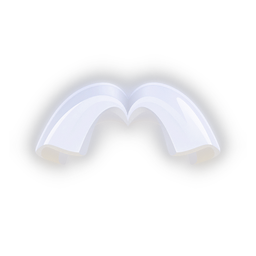
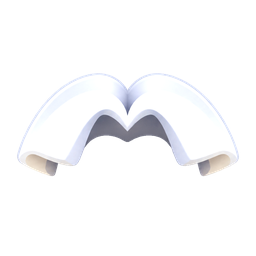
feat(brand): 更换品牌图标——透明底新稿，小尺寸辨识度增强
- assets/icon-source.png 换为 660×660 透明底原稿，原样归档不再走黑转透明
- assets/icon.png 重制：只裁全透明边距（alpha>0 像素不裁），alpha 曲线
  36→110 收净浮丝、对比度 1.25 加深中缝，等比放大至 128/256 槽高居中
- src/brandIcon.ts 注释同步新工艺，1800 行旧描述不再误导

Changed region(s): [[0.0625, 0.2812, 0.9375, 0.6875]]

diff --git a/src/brandIcon.ts b/src/brandIcon.ts
@@ -15,9 +15,11 @@ import iconDataUrl from "../assets/icon.png";
  * than shipped as a sibling file, because the release archive contains exactly
  * main.js/manifest.json/styles.css — a separate asset would 404 on install.
  *
- * Kept in one place, deliberately: the original 1536×1024 render on a black
- * field is archived as assets/icon-source.png, and assets/icon.png is the
- * black-to-alpha conversion of it. Nothing else should know the data URI
+ * Kept in one place, deliberately: the original 660×660 transparent render is
+ * archived untouched as assets/icon-source.png, and assets/icon.png is the
+ * 256px square derived from it — cropped to the non-transparent bounds, alpha
+ * re-curved and contrast-lifted so the fine strands survive ribbon size, then
+ * scaled to fill half the canvas height. Nothing else should know the data URI
  * exists.
  */
 
